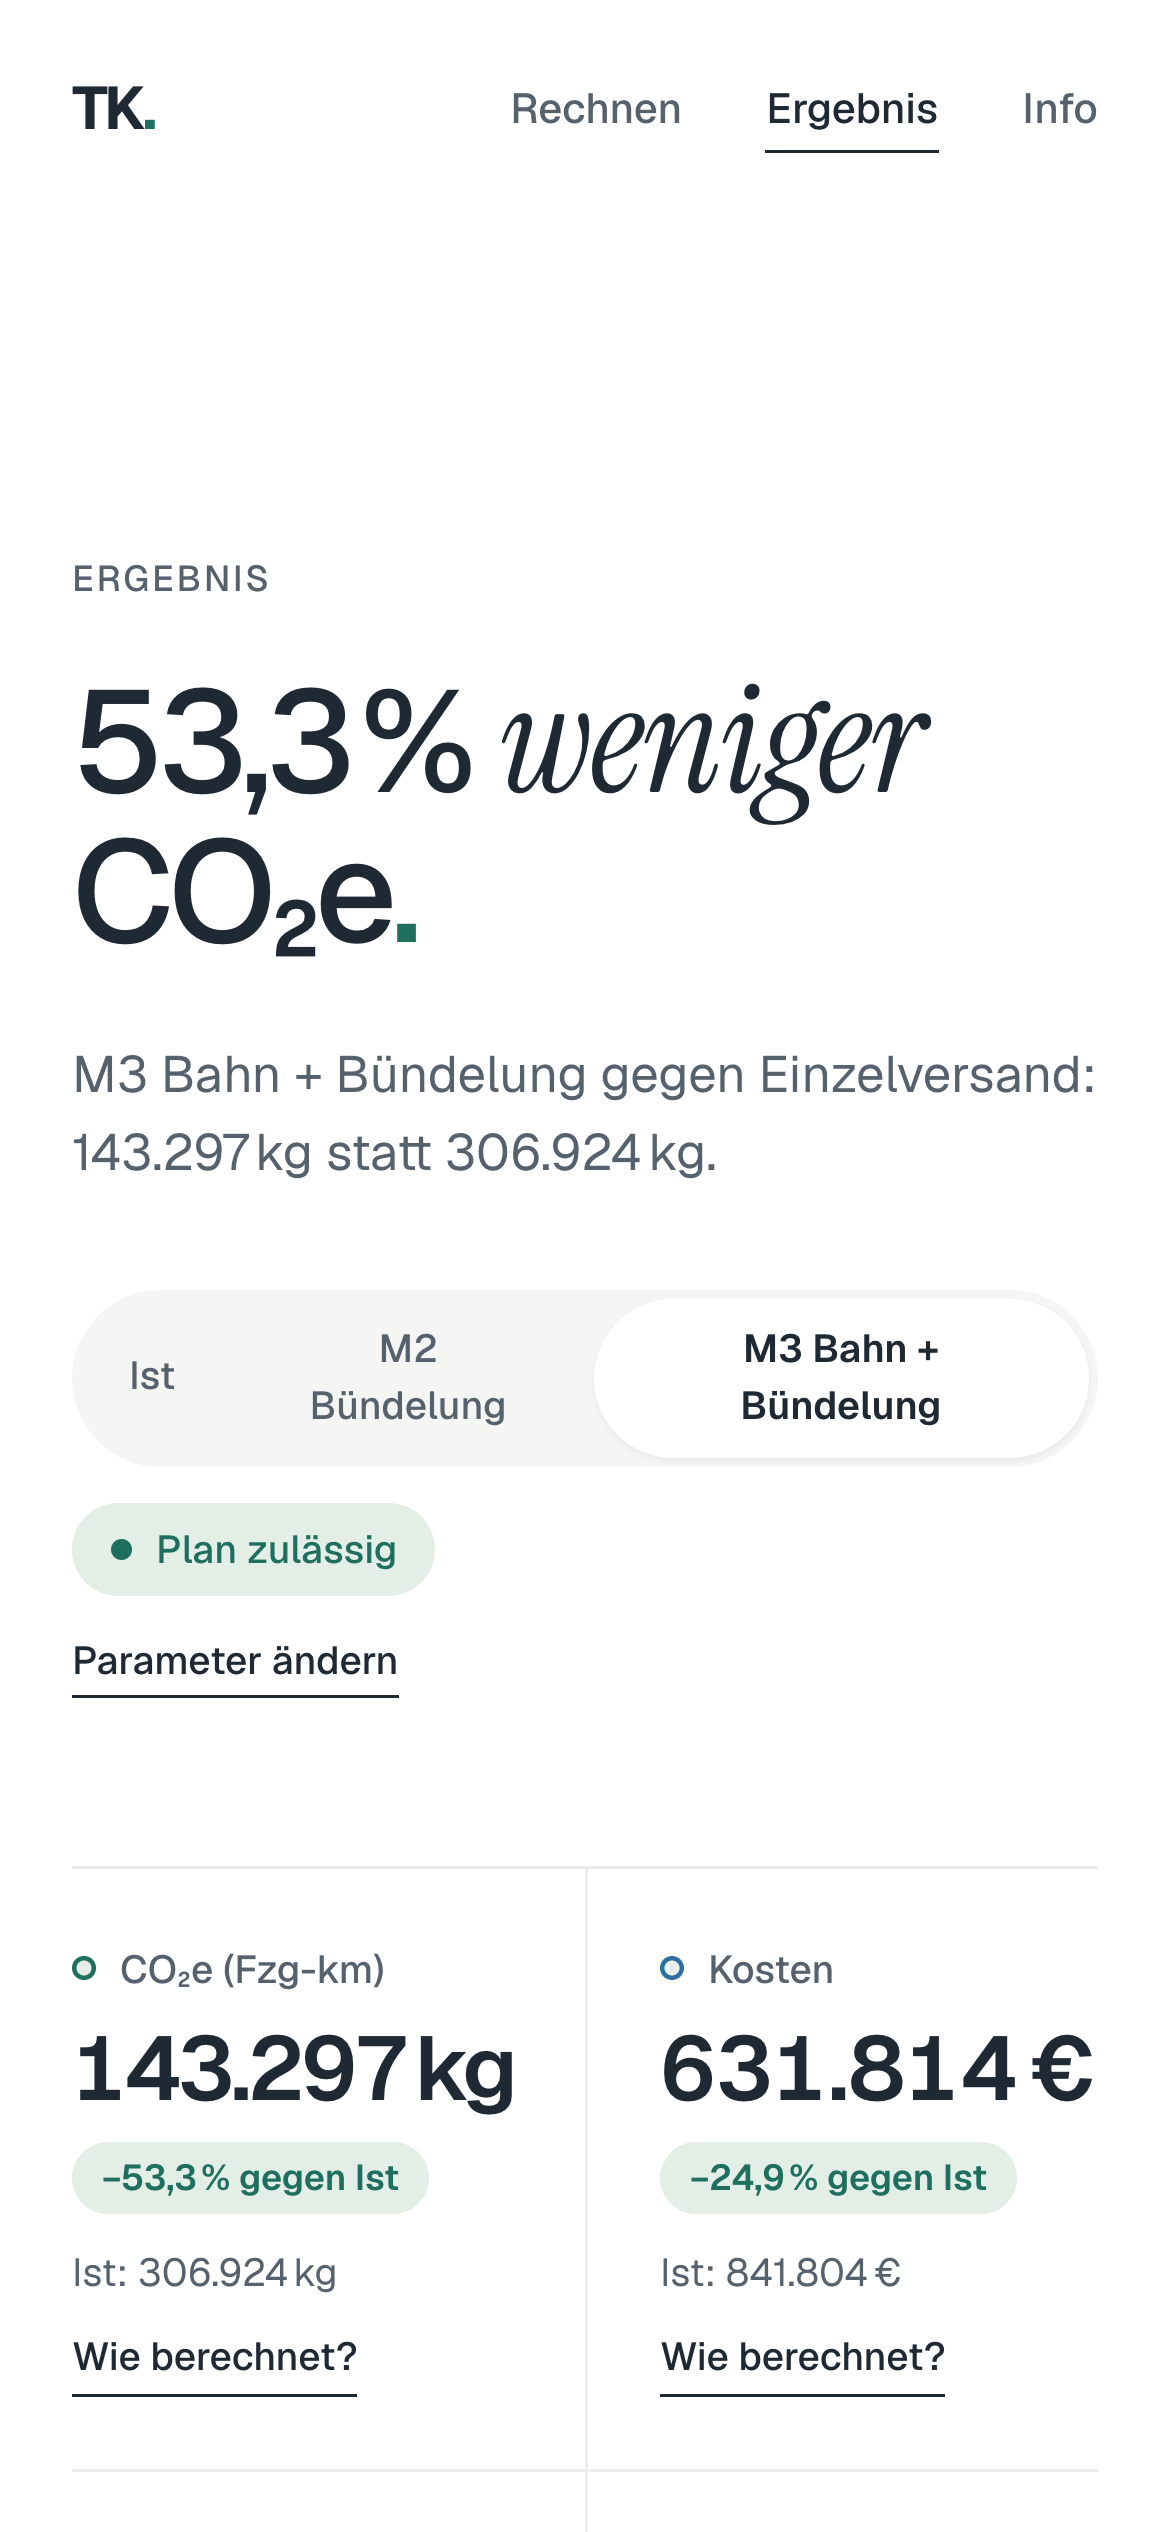
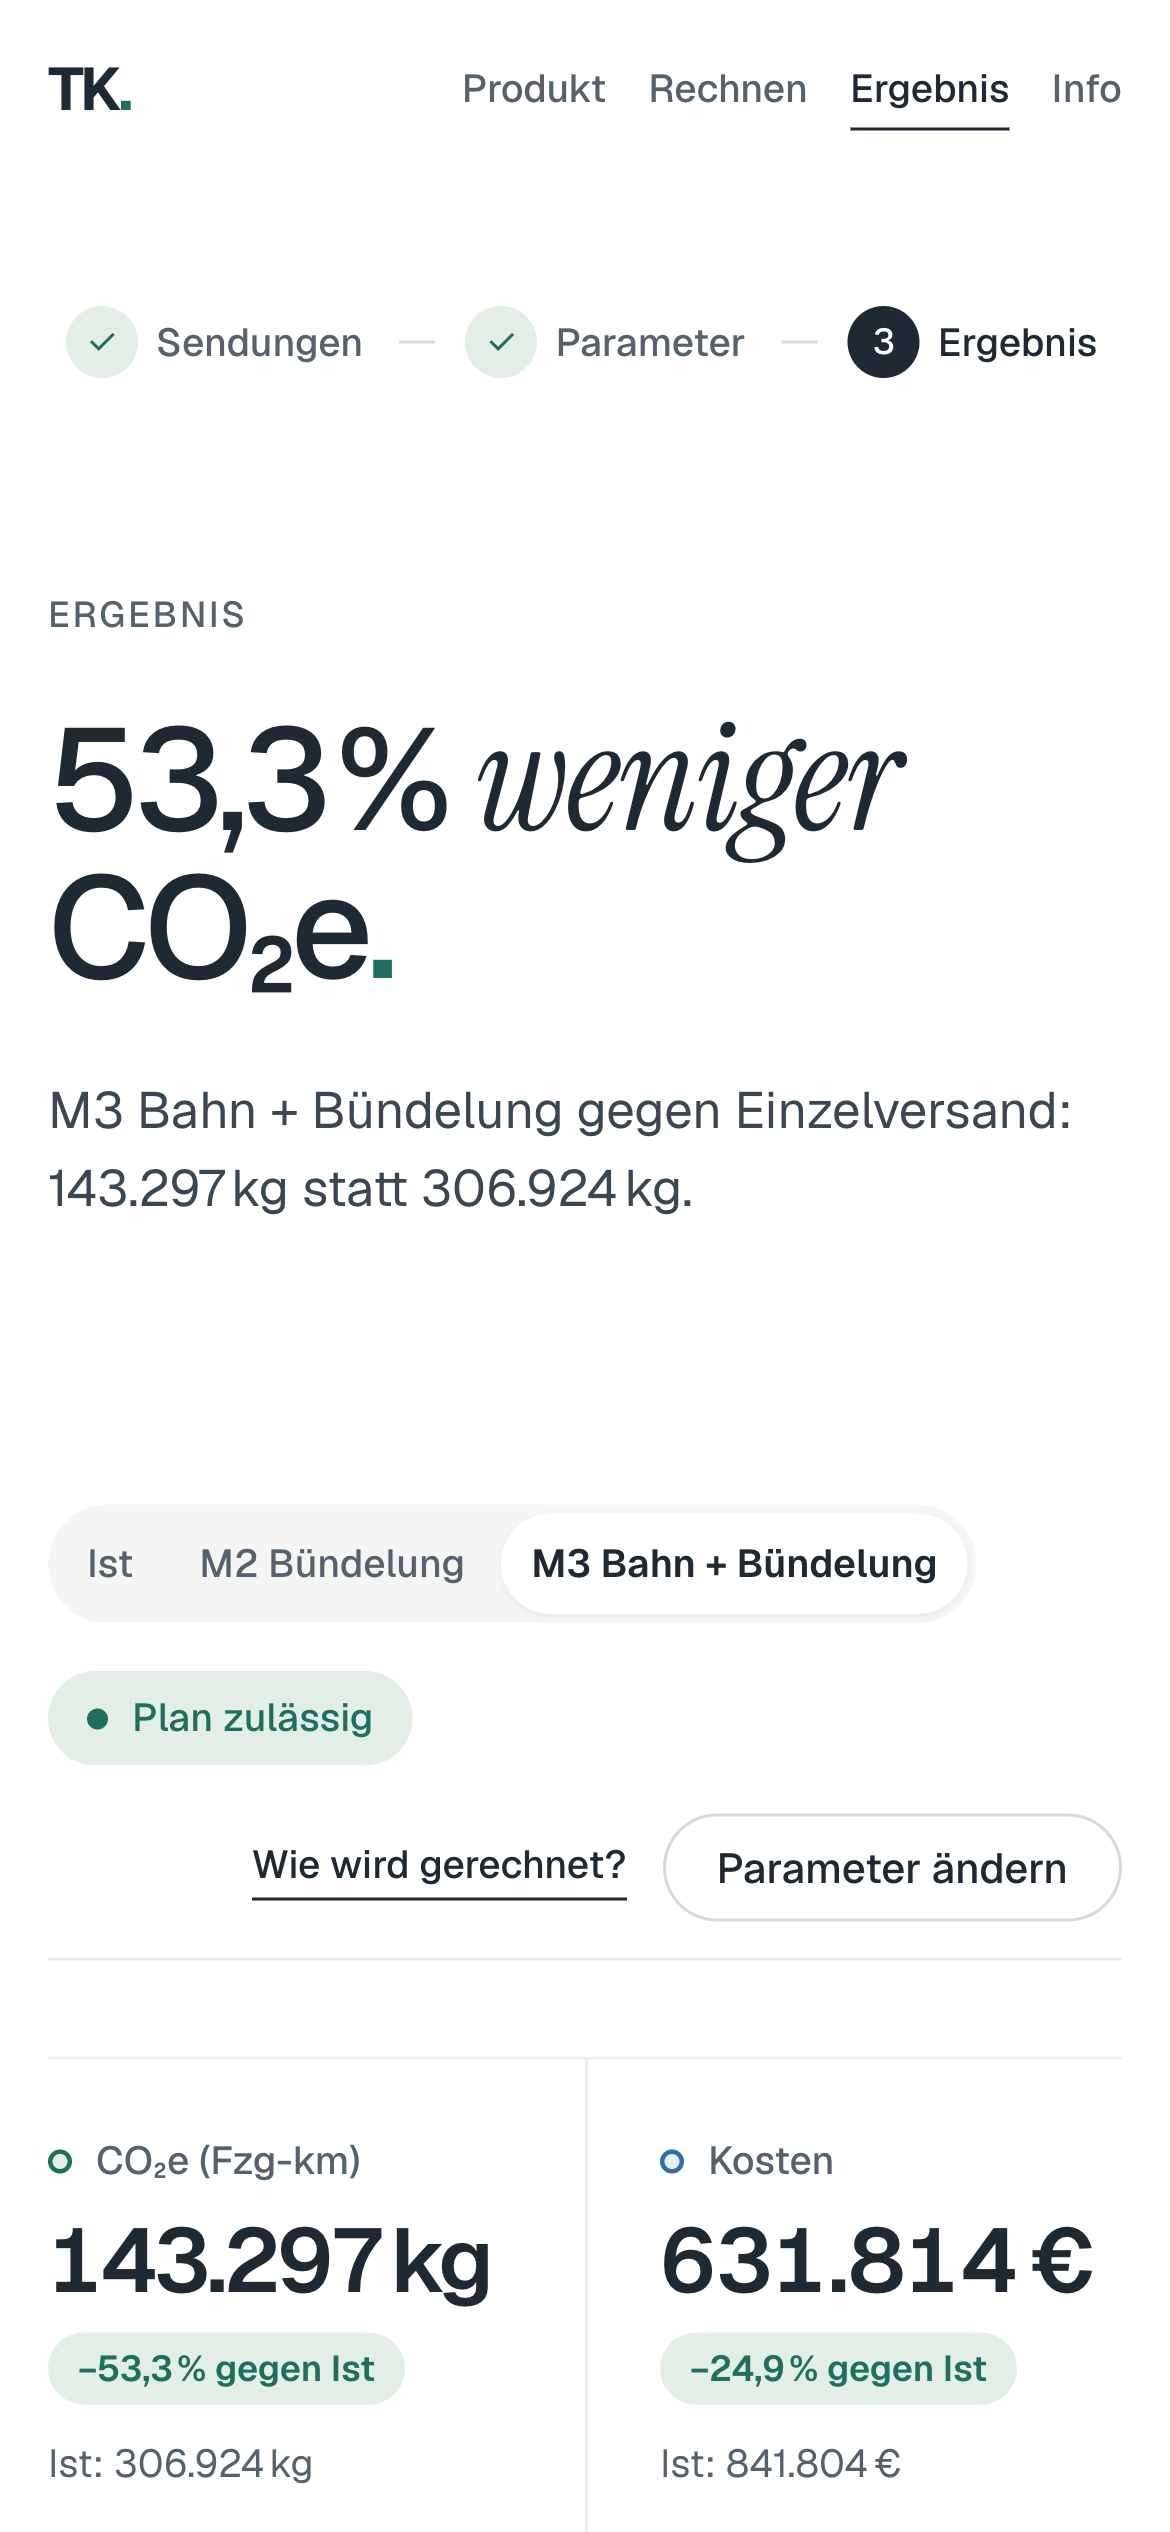
docs: retake all README screenshots; fix layout below 700 px
Header, step bar and dock fit a 390 px screen; screenshots at 2x
(desktop) and 3x (phone), assistant in demo mode.

diff --git a/src/tk/ui/theme.py b/src/tk/ui/theme.py
@@ -477,6 +477,23 @@ body { background: var(--bg); color: var(--text); font-family: var(--font); font
   .tk-hero { grid-template-columns: 1fr; }
   .tk-hero-side { align-items: flex-start; }
 }
+@media (max-width: 699px) {
+  .tk-nav { grid-template-columns: auto 1fr; height: 60px; }
+  .tk-nav-cta { display: none; }
+  .tk-pagenav { gap: 14px; justify-self: end; }
+  .tk-pagenav a { font-size: 13px; }
+  .tk-toolbar { top: 60px; }
+  .tk-steps { flex-wrap: nowrap; gap: 4px; }
+  .tk-step { padding-right: 8px; gap: 6px; }
+  .tk-step-meta { display: none; }
+  .tk-step-sep { width: 12px; }
+  .tk-segment button { padding: 7px 10px; }
+  .tk-stats-5, .tk-cols { grid-template-columns: 1fr; }
+  .tk-foot { grid-template-columns: 1fr; }
+  .tk-dock { padding-left: 16px; gap: 12px; }
+  .tk-dock-info > :not(:last-child) { display: none; }
+  .q-btn-toggle { flex-wrap: wrap; }
+}
 """
 
 

diff --git a/README.md b/README.md
@@ -35,7 +35,7 @@ Die Oberfläche hat vier Seiten: **Start** (`/`, Nutzen, Kennzahlen der Beispiel
 
 | Bereich | Was die App zeigt |
 |---|---|
-| Oberfläche | weiße Minimal-Website mit drei Seiten, schwebende Leiste "Berechnen", auch auf dem Smartphone bedienbar |
+| Oberfläche | Marke TK. TourKlima, weiße Website über die volle Breite mit Startseite und drei Arbeitsseiten, Schrittleiste, mitlaufende Zusammenfassung "Berechnen", auch auf dem Smartphone bedienbar |
 | Szenarien | Umschalter Ist, M2, M3; Status-Chip wie das Cockpit der Excel ("Plan zulässig") |
 | Karte Vorher/Nachher | Luftlinien je Relation, Breite nach Sendungen bzw. tkm, Bahn gestrichelt |
 | Relationsdetail | Klick auf eine Linie: Ist gegen Plan, beteiligte Sammeltouren, "Warum dieses Fahrzeug?" |
@@ -101,7 +101,7 @@ Im Tab **Freitext** eine Sendung in Worten beschreiben. Der Assistent übernimmt
 
 ### Auf dem Smartphone
 
-Alle drei Seiten passen sich der Bildschirmbreite an; Kennzahlen stehen dann zu zweit nebeneinander, der Szenario-Umschalter rückt unter die Überschrift.
+Alle Seiten passen sich der Bildschirmbreite an. Auf dem Smartphone bleiben die vier Seitenlinks in der Kopfzeile, die Schrittleiste zeigt nur die Schritte, Kennzahlen stehen zu zweit nebeneinander, und statt der Zusammenfassung erscheint unten die Leiste "Berechnen".
 
 <p>
   <img src="docs/images/10_mobil_rechnen.png" alt="Seite Rechnen auf dem Smartphone" width="260">

diff --git a/docs/prompt_log.md b/docs/prompt_log.md
@@ -228,3 +228,9 @@ Umsetzung: Marke „TK. TourKlima“ (`BRAND` in `ui/layout.py`). Neue Startseit
 Befund: Die schwebende Leiste stand schon vorher rechts versetzt, weil ihre Einblendanimation das `translateX(-50 %)` überschrieb; jetzt zentriert über `left`, `right` und `margin`. Die Knoten-Kanten-Grafik wird nun mittig gezeichnet, deshalb ist der SVG-Snapshot neu erzeugt.
 Gate: ruff, ruff format und mypy grün, pytest 210 bestanden, Browsertests 4 bestanden.
 Browserprüfung (1024, 1440, 1920 px): kein horizontales Scrollen, Start mit Beispieldaten öffnet das Ergebnis mit Karte, Zusammenfassung und Leiste je nach Breite.
+
+## README-Bilder neu und Smartphone-Ansicht (23.10.2026)
+Auftrag: alle Bilder der README an das neue Design anpassen.
+Umsetzung: Alle zwölf Bilder in `docs/images` neu aufgenommen, Desktop 1440 px mit doppelter Pixeldichte, Smartphone 390 px mit dreifacher Dichte; Assistent im Demo-Modus (aufgezeichneter Ablauf, kein Aufruf an Gemini).
+Befund: Unter 700 px war die Kopfzeile mit vier Links und Hauptaktion breiter als der Bildschirm (Seite 449 statt 390 px breit, herausgezoomt), die Schrittleiste brach in drei Zeilen. Neu: Hauptaktion und Schrittstatus unter 700 px ausgeblendet, Leiste "Berechnen" zeigt nur die CO₂e-Wirkung, Umschalter dürfen umbrechen. Seitenbreite jetzt 390 px auf Start, Rechnen, Ergebnis und Info.
+Gate: ruff, ruff format und mypy grün, pytest 210 bestanden.
